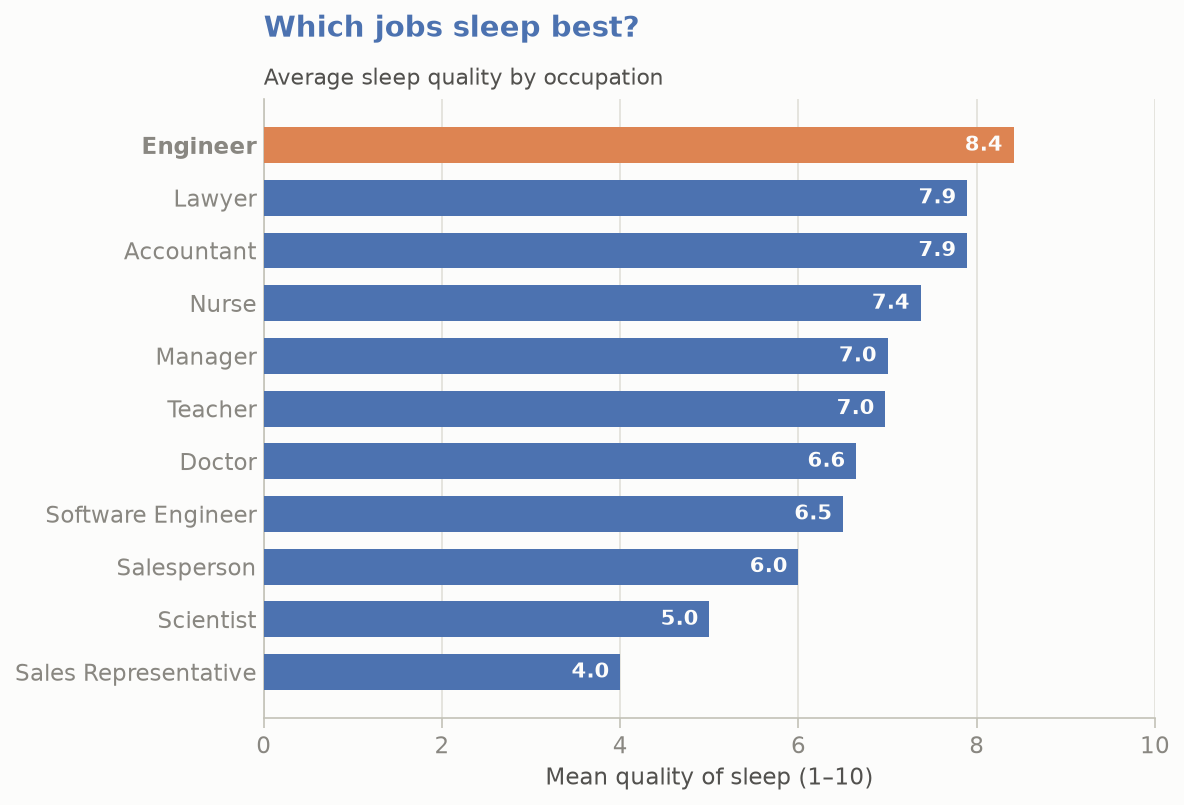
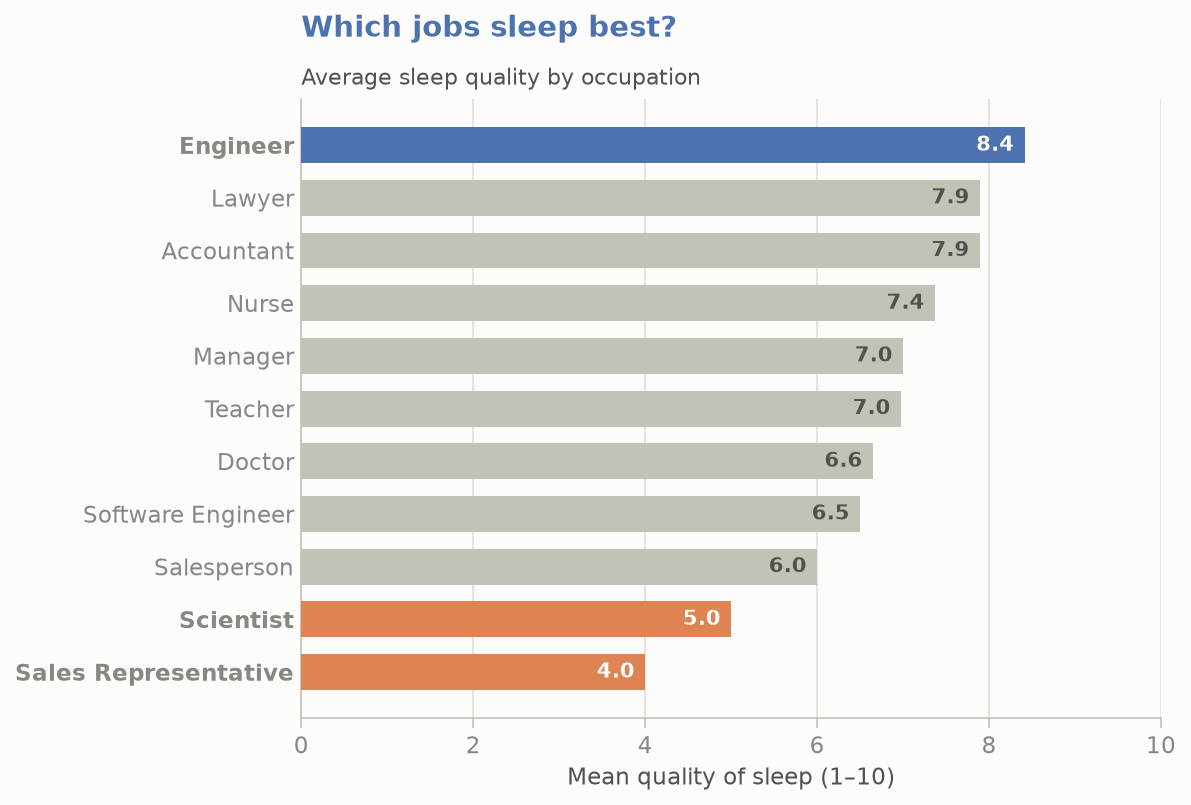
Flag lowest-scoring jobs in the ranking chart, colorblind-safely
Scientist and Sales Representative (the two lowest) now render in warm orange,
the top job stays cool blue, and the middle recedes to neutral gray. Uses only
the validated colorblind-safe blue/orange pair for meaning (a third saturated
hue fails CVD separation beside them); per-bar label color keeps text legible
on both saturated and gray bars, and emphasized names are bolded.

Claude-Session: https://claude.ai/code/session_014MgEWMLn54NU3BgDgiQ9v1

diff --git a/src/vision_plot/charts.py b/src/vision_plot/charts.py
@@ -35,29 +35,34 @@ def _require(df: pd.DataFrame, cols: list[str]) -> None:
 def quality_by_occupation(df: pd.DataFrame) -> plt.Figure:
     """Ranked horizontal bars: mean sleep quality per occupation.
 
-    Aesthetic: a single accent hue for context, with the top-scoring occupation
-    picked out in a warm highlight so the winner reads instantly. Bars are sorted
-    so the ordering comes for free, and each bar is direct-labelled so the x-axis
-    can disappear entirely.
+    Aesthetic: the two extremes are the story, so only they carry saturated
+    colour — cool blue for the best-sleeping job, warm orange for the two
+    worst — while the middle recedes into neutral gray. Blue and orange are a
+    validated colourblind-safe pair; the neutral middle keeps a third saturated
+    hue (which could not stay colourblind-safe beside them) off the chart.
+    Bars are sorted and each is direct-labelled so the x-axis is optional.
     """
     _require(df, ["Occupation", "Quality of Sleep"])
     apply_theme()
     means = (df.groupby("Occupation")["Quality of Sleep"]
                .mean().sort_values())
 
-    # Everything sits in the calm accent; the highest bar gets a warm highlight
-    # so the reader's eye lands on the best-sleeping job first.
-    top = len(means) - 1
-    colors = [ACCENT] * len(means)
-    colors[top] = HIGHLIGHT
+    # Sorted ascending: index 0-1 are the two lowest, the last is the highest.
+    n = len(means)
+    emphasized = {0, 1, n - 1}          # two worst + the best
+    colors = [INK["baseline"]] * n      # neutral gray context
+    colors[n - 1] = ACCENT              # best sleeper -> cool blue
+    colors[0] = colors[1] = HIGHLIGHT   # two lowest -> warm orange
 
     fig, ax = plt.subplots(figsize=(8, 5.5))
     bars = ax.barh(means.index, means.values, color=colors,
                    height=0.68, zorder=3)
-    for bar, val in zip(bars, means.values):
+    for i, (bar, val) in enumerate(zip(bars, means.values)):
+        # White reads on the saturated bars; dark ink on the light gray ones.
+        label_color = INK["surface"] if i in emphasized else INK["secondary"]
         ax.text(val - 0.12, bar.get_y() + bar.get_height() / 2,
                 f"{val:.1f}", va="center", ha="right",
-                color=INK["surface"], fontweight="bold", fontsize=10)
+                color=label_color, fontweight="bold", fontsize=10)
 
     # A real x-axis: ticks, marks, a baseline and a faint vertical grid so the
     # chart reads as a measured graph, not just labelled blocks.
@@ -66,9 +71,10 @@ def quality_by_occupation(df: pd.DataFrame) -> plt.Figure:
     ax.set_xticks(range(0, 11, 2))
     ax.tick_params(axis="x", length=5, color=INK["baseline"])
     ax.set_xlabel("Mean quality of sleep (1–10)")
-    # Bold only the winning occupation's label so its name reads as emphatically
-    # as its bar — the reader's eye ties the two together.
-    ax.get_yticklabels()[top].set_fontweight("bold")
+    # Bold the emphasised occupations' names so they read as strongly as their
+    # coloured bars — the reader's eye ties name and bar together.
+    for i in emphasized:
+        ax.get_yticklabels()[i].set_fontweight("bold")
     titled(ax, "Which jobs sleep best?",
            "Average sleep quality by occupation",
            title_color=ACCENT)
